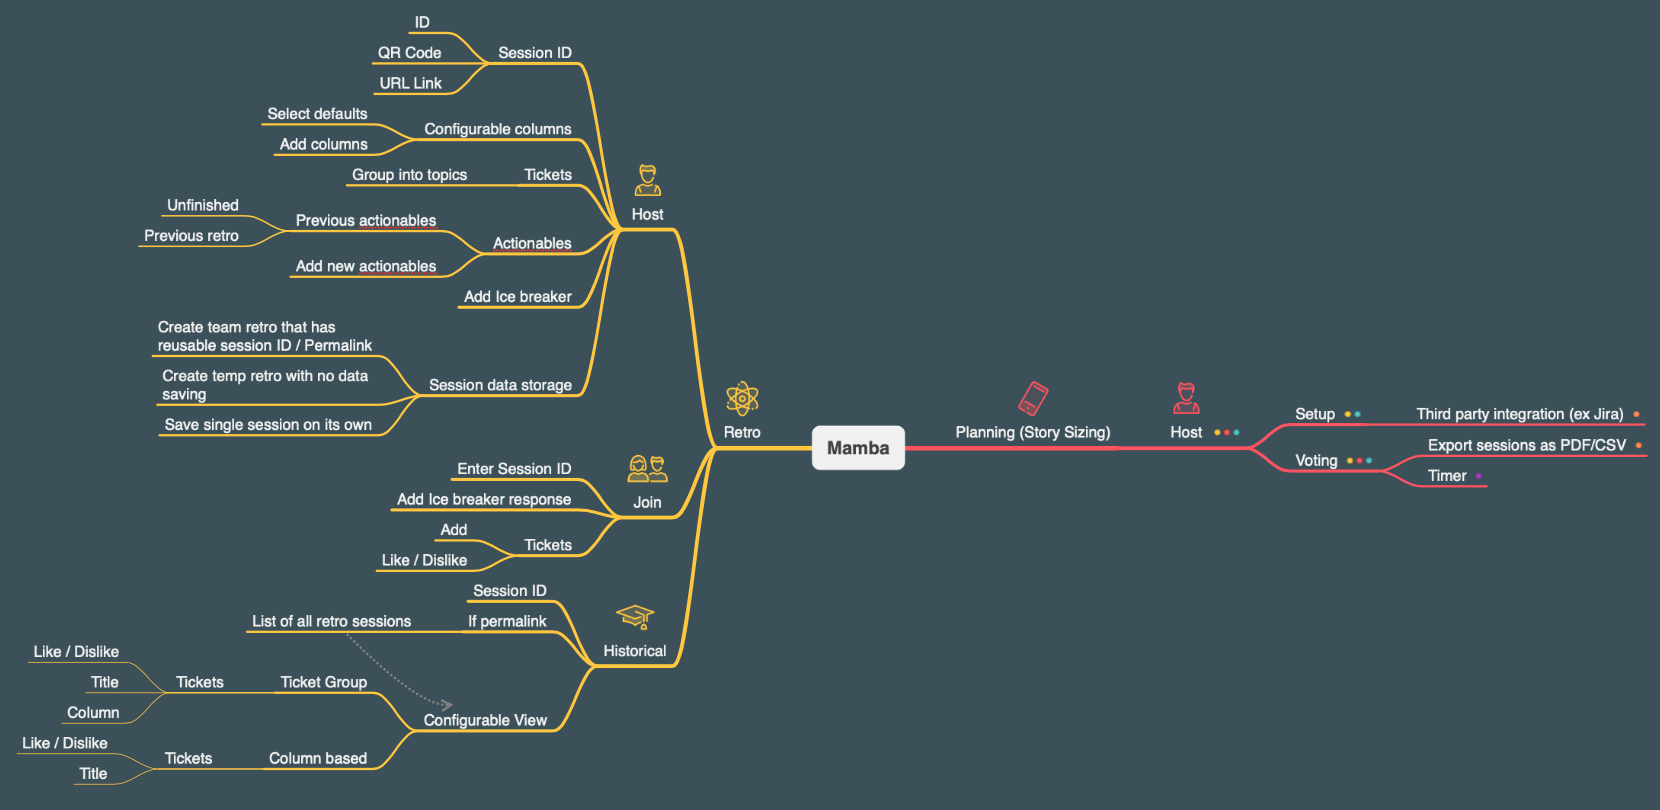
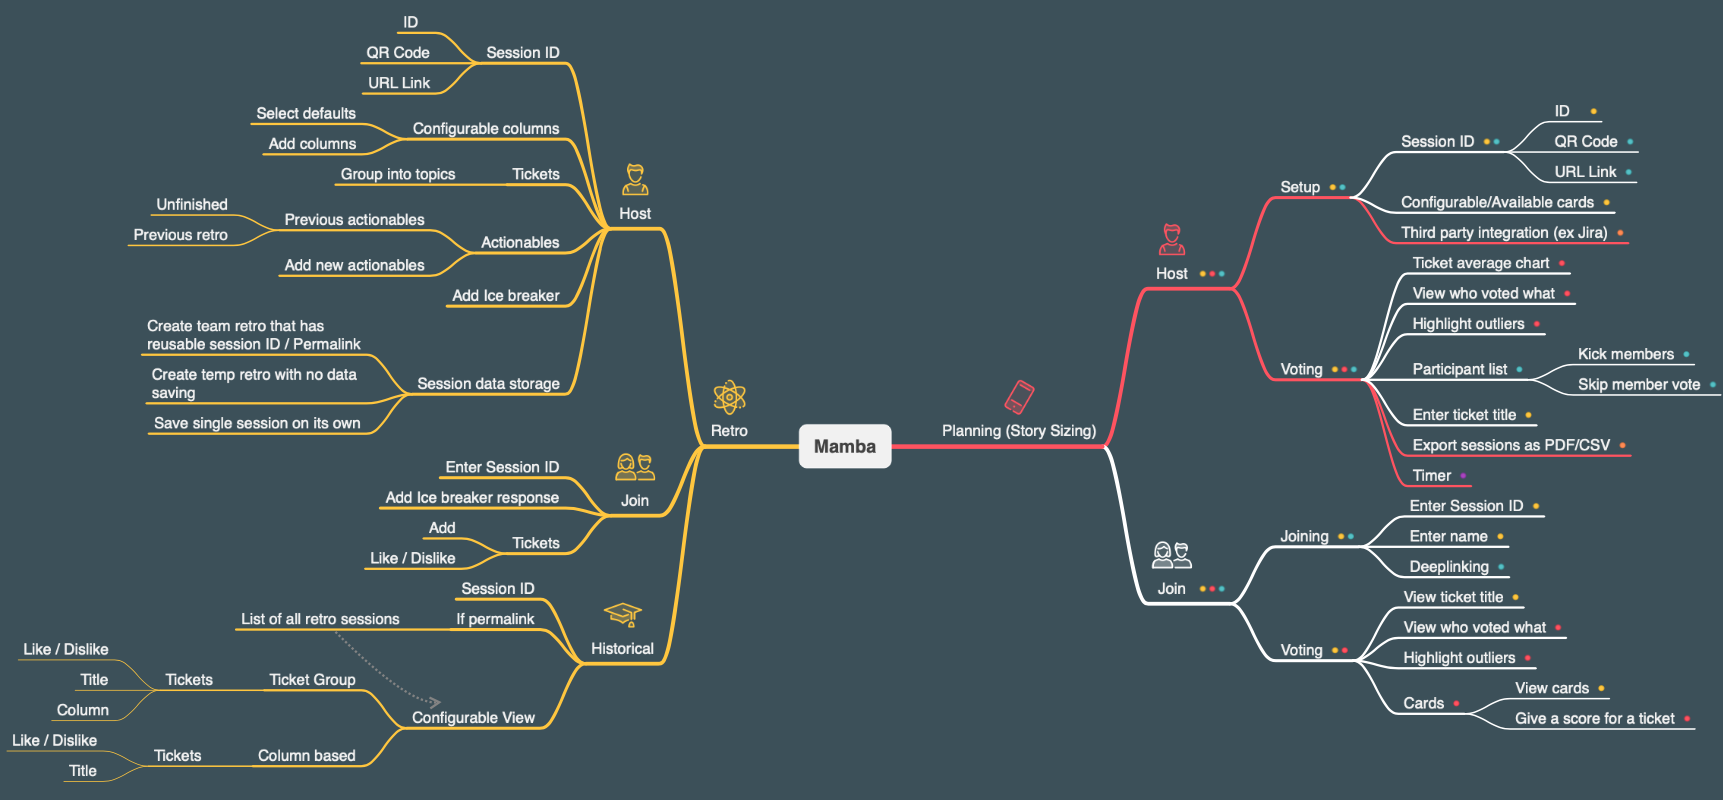
Update roadmap to indicate complete features

diff --git a/README.md b/README.md
@@ -64,6 +64,8 @@ git clone https://github.com/Operation-Winter/mamba-ios.git
 
 ## Roadmap
 
+White lines indicate completed features.
+
 [![Roadmap][roadmap]](https://example.com)
 
 ## License
